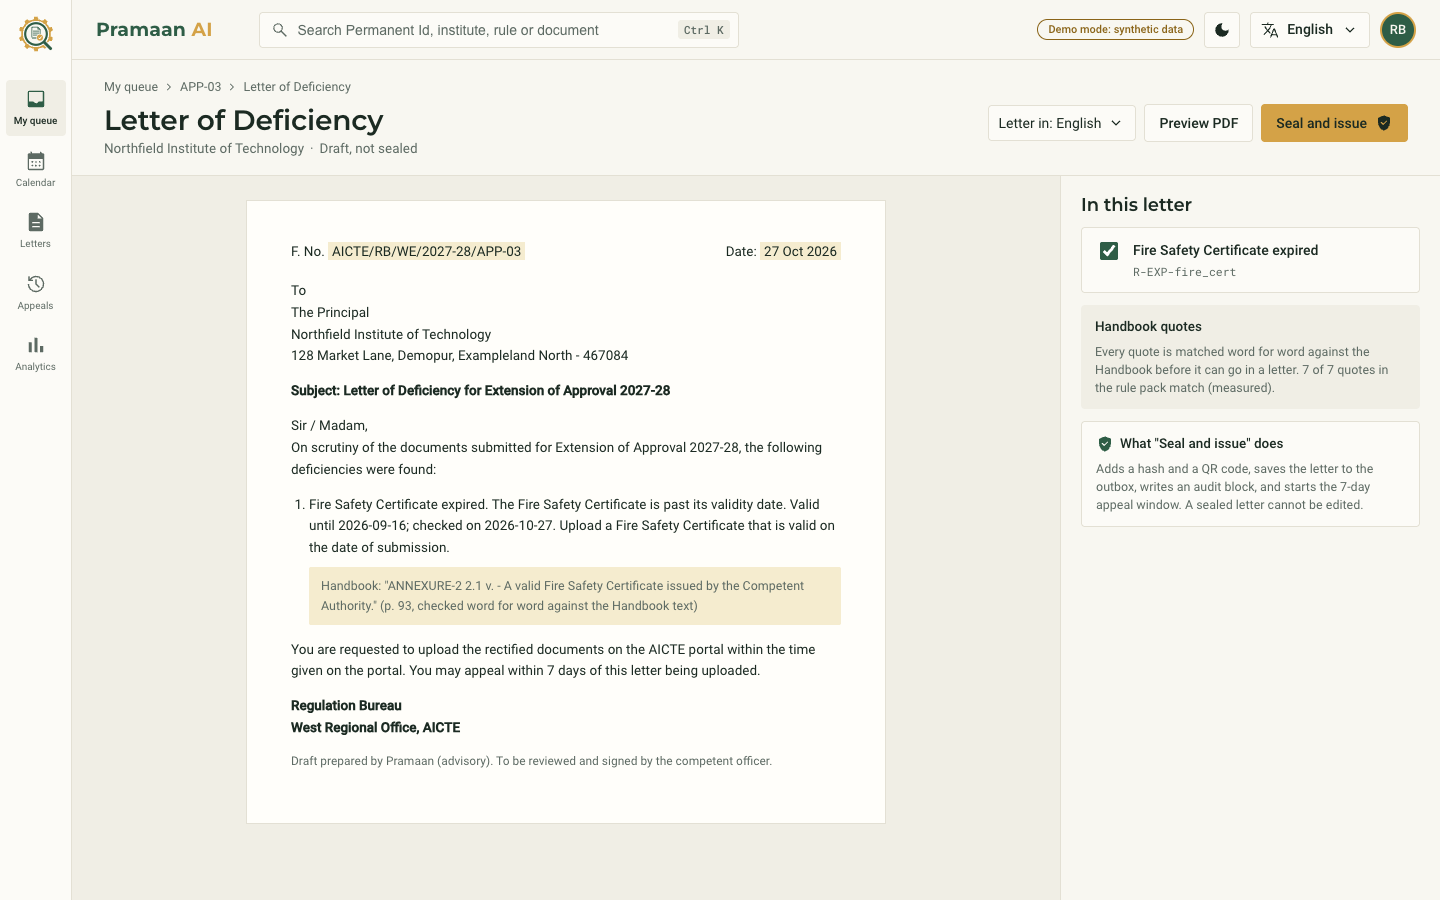
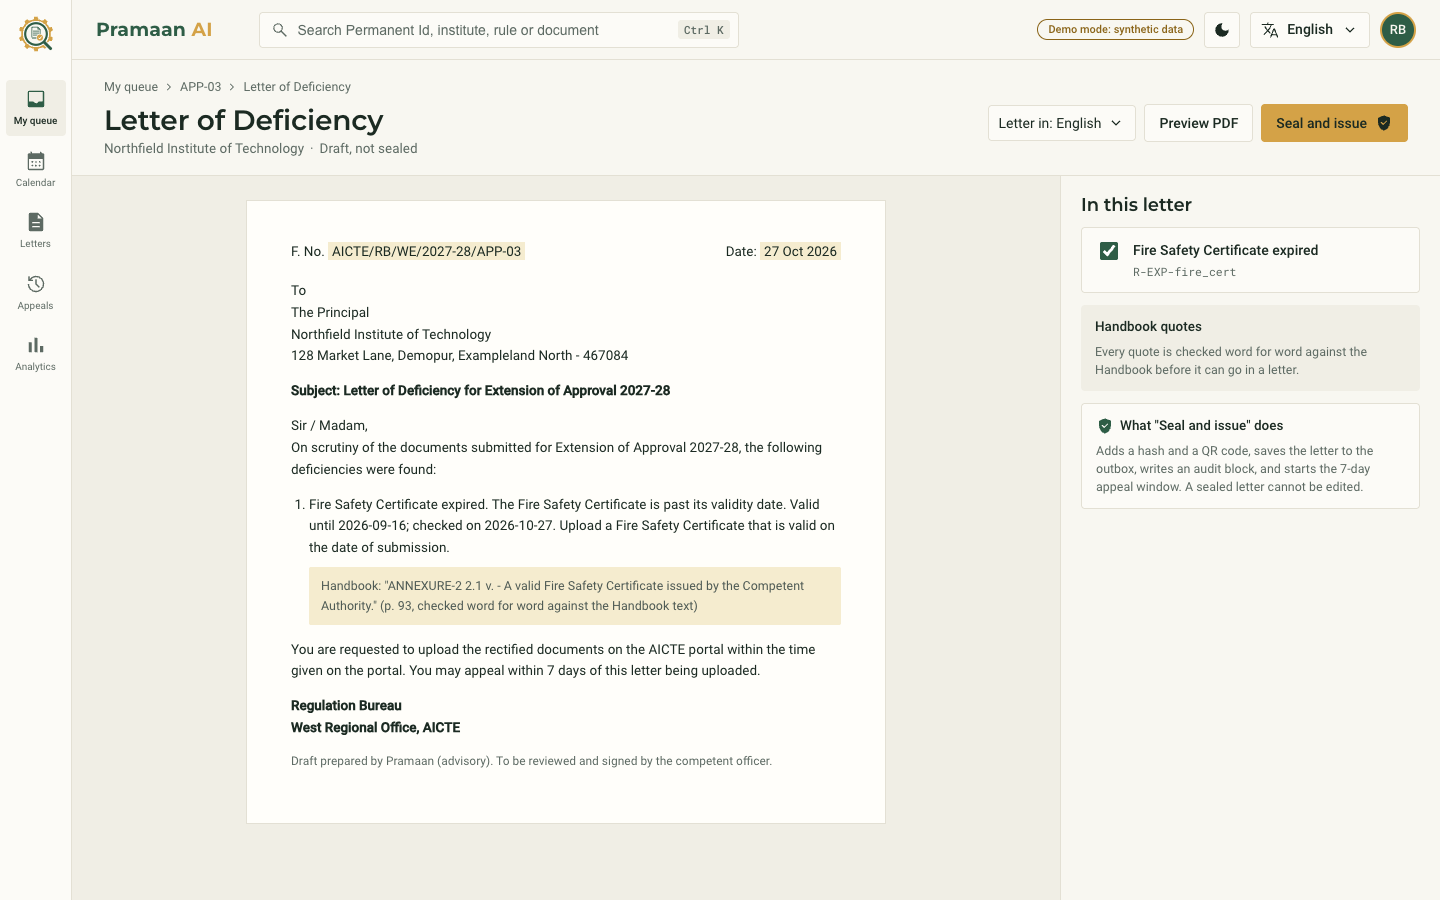
WK26 fix: no quote count in letter editor

Changed region(s): [[0.75, 0.4667, 0.9688, 0.5911], [0.7812, 0.3733, 0.9688, 0.4356]]

diff --git a/web/src/pages/LetterEditor.tsx b/web/src/pages/LetterEditor.tsx
@@ -92,7 +92,7 @@ export function LetterEditor({ c }: { c: Case }) {
                 );
               })}
               {v.data && <div className="infobox"><b>{t("Handbook quotes")}</b>
-                <p>{t("Every quote is matched word for word against the Handbook before it can go in a letter.")} {v.data.quotes.found} {t("of")} {v.data.quotes.total} {t("Handbook quotes used in the checks match")} ({t("measured")}).</p></div>}
+                <p>{t("Every quote is checked word for word against the Handbook before it can go in a letter.")}</p></div>}
               <div className="infobox plain"><b><Icon name="verified_user" style={{ color: "var(--brand)" }} /> {t("What \"Seal and issue\" does")}</b>
                 <p>{t("Adds a hash and a QR code, saves the letter to the outbox, writes an audit block, and starts the 7-day appeal window. A sealed letter cannot be edited.")}</p></div>
             </>
